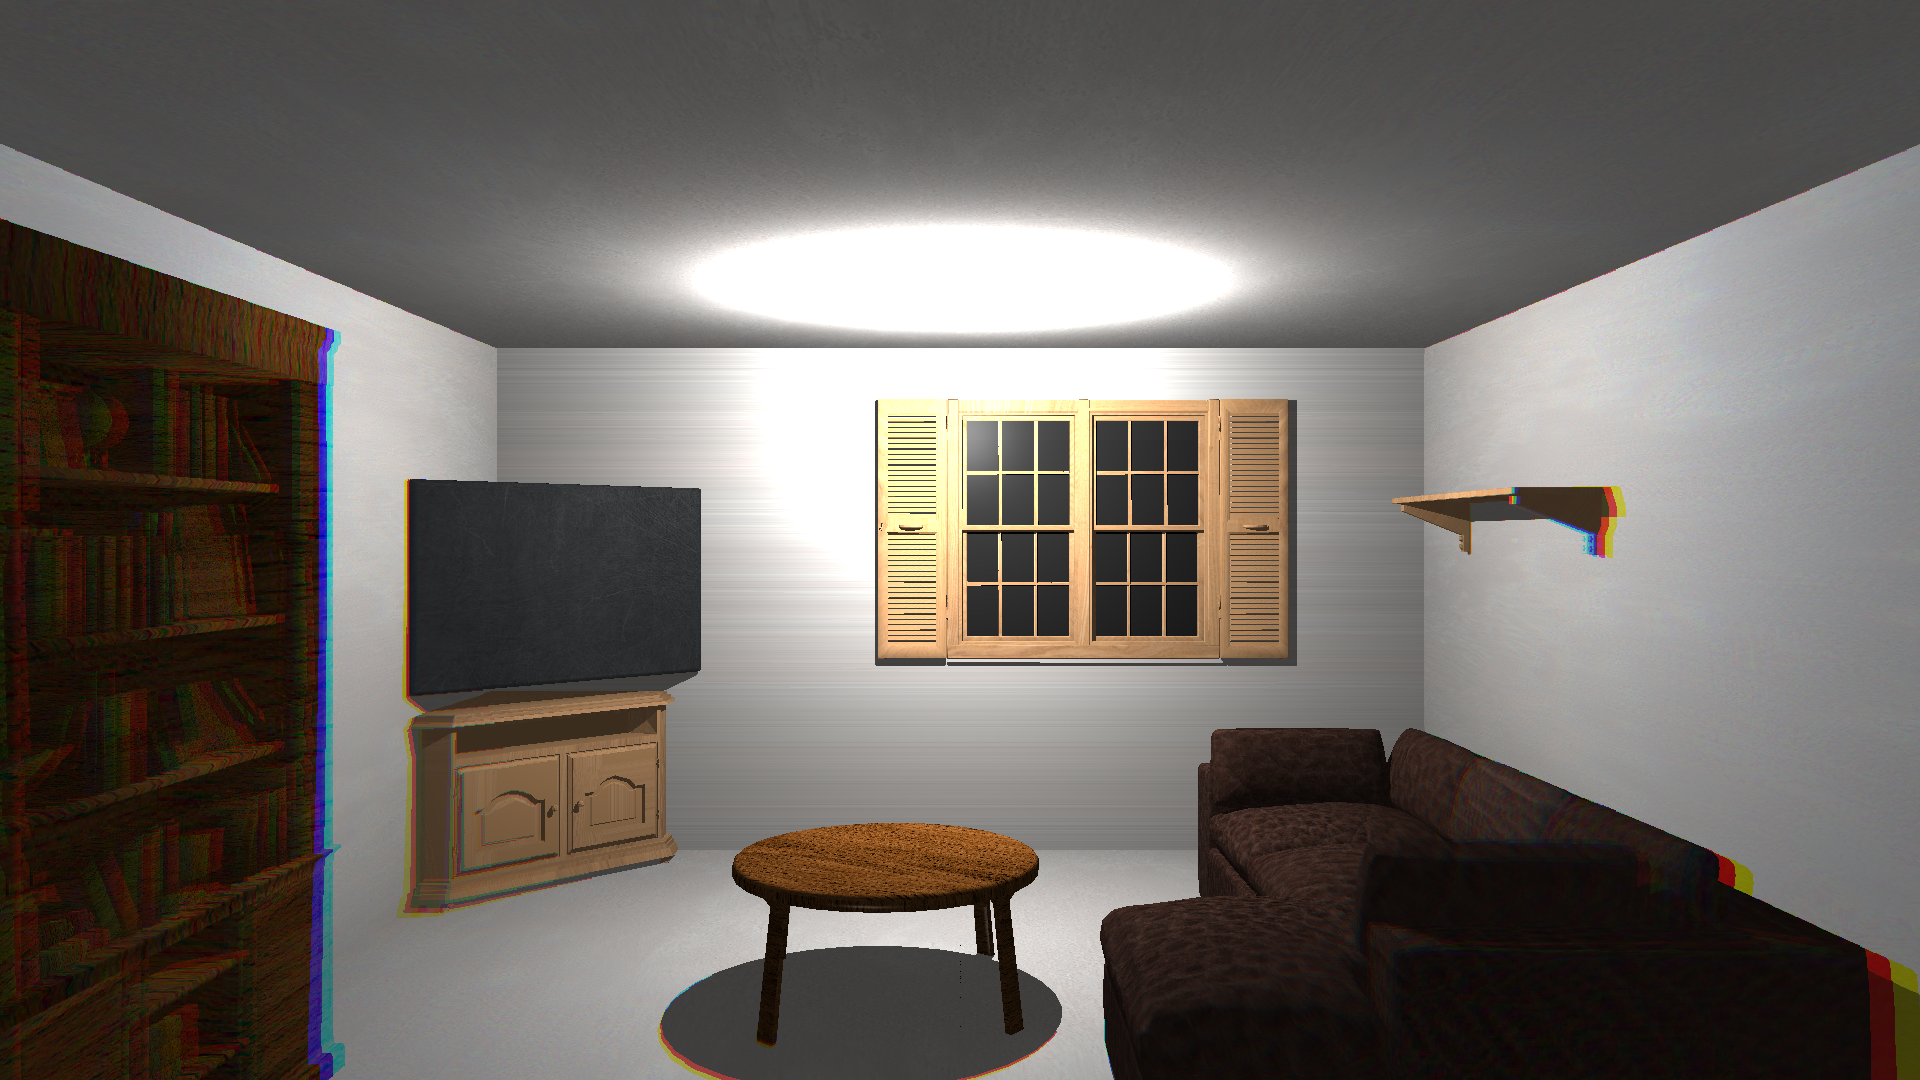
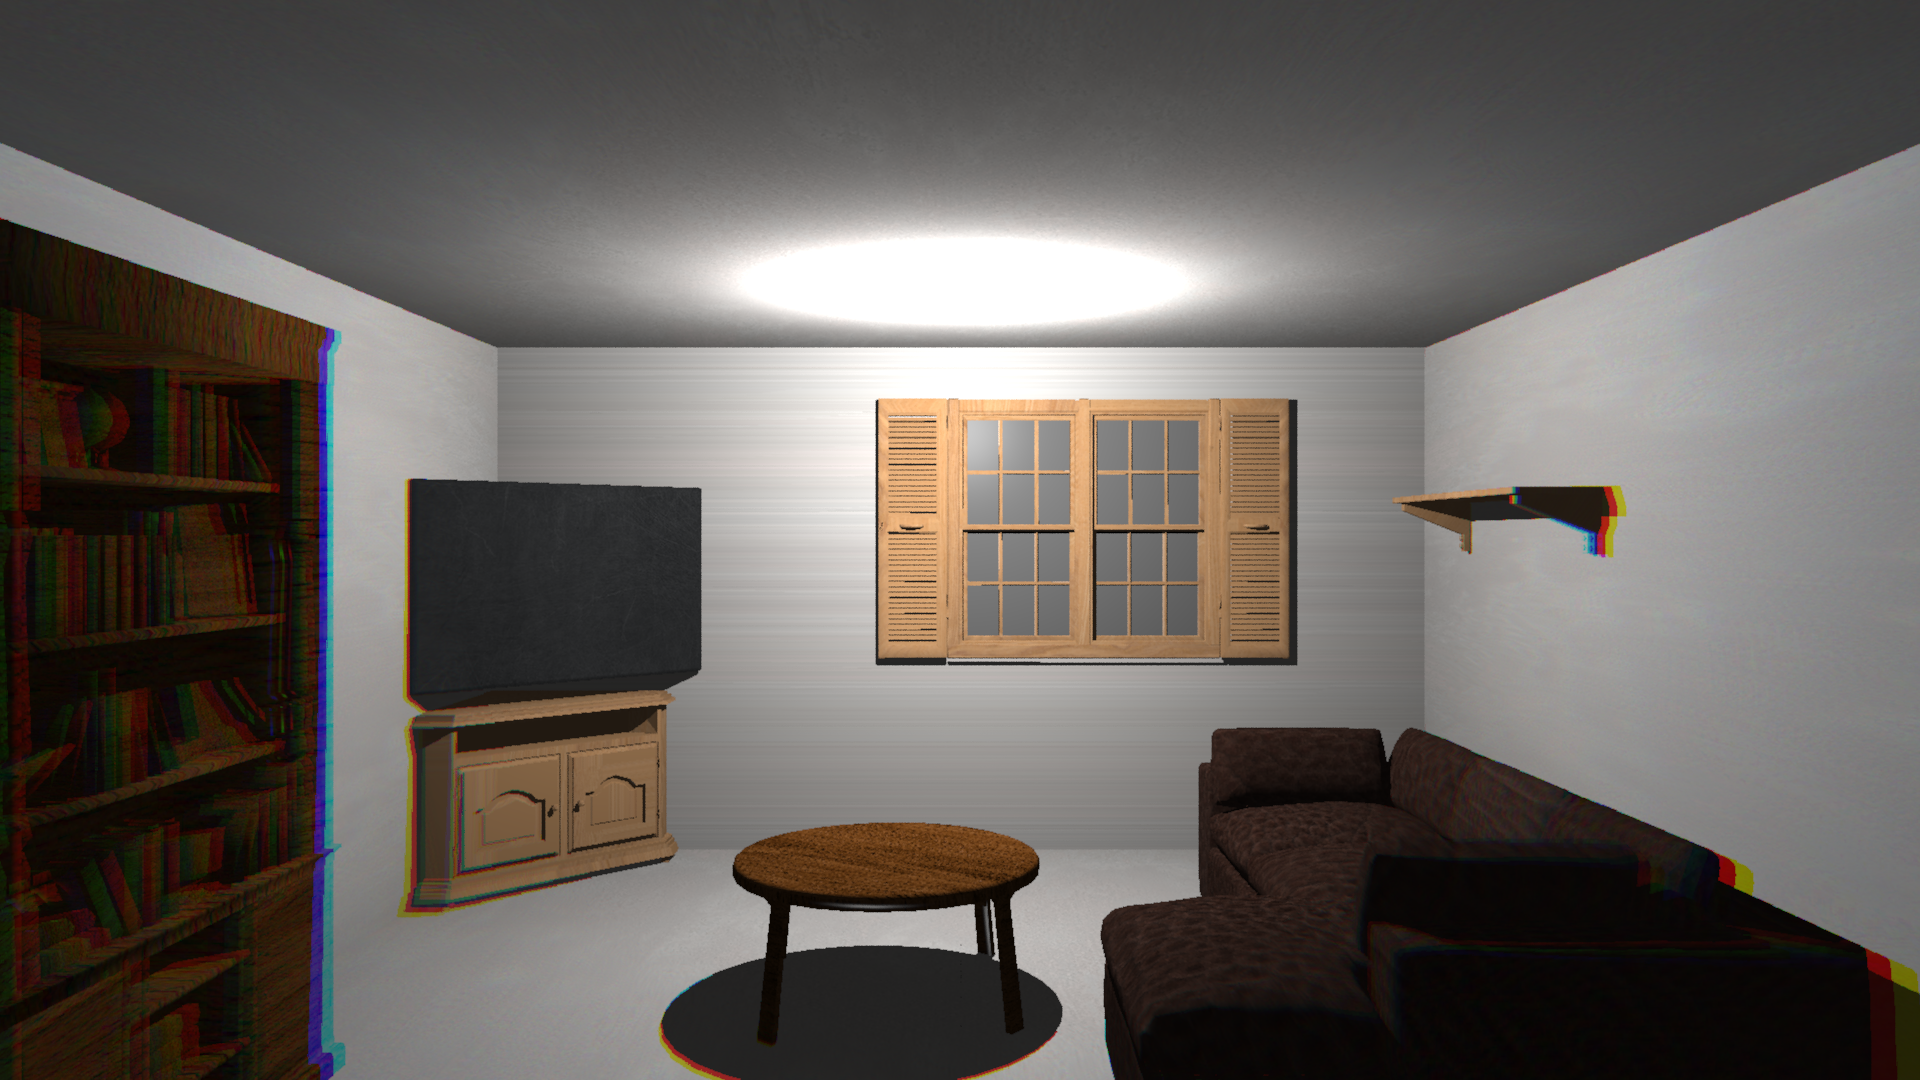
Implemented Anti-Aliasing
Raytracer
- Created a random float function
- Implemented Anti-Aliasing
- Added gamma correction (also reduced light intensity)

diff --git a/Coursework/Raytracer/main.cpp b/Coursework/Raytracer/main.cpp
@@ -41,18 +41,18 @@ Eigen::Vector3f loadVec3FromConfig(const nlohmann::json& config)
 	return Eigen::Vector3f(config[0], config[1], config[2]);
 }
 
-//float chromaticAberration(float radius, float slope, float unchangedRadius) {
-//	if (radius < unchangedRadius) {
-//		return radius;
-//	}
-//	return slope * radius + unchangedRadius * (1 - slope);
-//}
+// Returns a random float value between 0 and 1
+// Used for the jitter of Anti-Aliasing
+float randomFloat() {
+	return static_cast<float>(rand()) / RAND_MAX * 1.0f;
+}
 
 int main(int argc, char* argv[]) {
 
 	// --[Load the config file]--
 	auto config = loadConfig("../config/config.json");
 
+	// ::DEBUGGING:: Could divide pixHeight & pixWidth by 2 to reduce resolution = faster render time
 	const int pixHeight = config["pixHeight"], pixWidth = config["pixWidth"];
 	const int nChannels = 4;
 
@@ -173,10 +173,10 @@ int main(int argc, char* argv[]) {
 	scene.renderables.push_back(std::make_shared<BVHNode>(windowPaneModel, &glassShader, 4, rotateY(M_PI)));
 
 	// --[Add lights to scene]--
-	Eigen::Vector3f ambientLight(.3f, .3f, .3f);
+	Eigen::Vector3f ambientLight(0.02f, 0.02f, 0.02f);
 
 	std::vector<std::unique_ptr<Light>> lightSources;
-	lightSources.push_back(std::make_unique<PointLight>(Eigen::Vector3f(0.0f, 2.0f, 0.0f), 3.f * Eigen::Vector3f(1.f, 1.f, 1.f)));
+	lightSources.push_back(std::make_unique<PointLight>(Eigen::Vector3f(0.0f, 2.0f, 0.0f), 3.0f * Eigen::Vector3f(1.f, 1.f, 1.f)));
 
 	// --[Render the scene]--
 	// Shuffling the scanline order gets better CPU usage between threads
@@ -192,48 +192,81 @@ int main(int argc, char* argv[]) {
 
 	auto startTime = std::chrono::steady_clock::now();
 
-	Ray ray = cam.getRay(531, 325);
-	HitInfo hitInfo;
-	hitInfo.shader = nullptr;
-	scene.intersect(ray, 1e-6f, 1e6f, hitInfo, VISIBLE_BITMASK);
-	float x = hitInfo.hitT;
+	// Anti-Aliasing (AA) variables
+	// Reducing the number of samples reduces the affect of the AA but increases the render time
+	// Increasing the num of samples increases the affect of AA but increases render time
+	int samplesPerPixel = 32;
 
-
-	#pragma omp parallel for
+	// Threading disabled to allow random function of AA to work as intended - creating multiple rays with random offsets
+	//#pragma omp parallel for
 	for (int y = 0; y < pixHeight; ++y) {
 		for (int x = 0; x < pixWidth; ++x) {
-			Ray ray = cam.getRay(x, scanlines[y]);
-			HitInfo hitInfo;
-			hitInfo.shader = nullptr;
-			if (scene.intersect(ray, 1e-6f, 1e6f, hitInfo, VISIBLE_BITMASK)) {
-				if (hitInfo.shader == nullptr) {
-					std::cerr << "Error: Shader is null!" << std::endl;
-					continue;
+			// Anti-Aliasing implemented using stochastic (random) supersampling
+			Eigen::Vector3f totalColor(0.0f, 0.0f, 0.0f);	// Create a total colour variable
+
+			// For each sample taken per pixel
+			for (int s = 0; s < samplesPerPixel; s++) {
+				// Generate a random jittered X and Y values
+				float jitterX = x + randomFloat() - 0.5f;
+				float jitterY = scanlines[y] + randomFloat() - 0.5f;
+
+				// ::DEBUGGING:: to test whether the jitter values are changing
+				/*if (x == pixWidth / 2 && y == pixHeight / 2 && s < 5) {
+					std::cout << jitterX << ", " << jitterY << std::endl;
+				}*/
+
+				// Shoot a ray using that value
+				Ray ray = cam.getRay(jitterX, jitterY);
+				HitInfo hitInfo;
+				hitInfo.shader = nullptr;
+
+				// If the ray hits an object in the scene
+				if (scene.intersect(ray, 1e-6f, 1e6f, hitInfo, VISIBLE_BITMASK)) {
+					if (hitInfo.shader == nullptr) {
+						std::cerr << "Error: Shader is null!" << std::endl;
+						continue;
+					}
+
+					// Get the colour of that point
+					Eigen::Vector3f color = hitInfo.shader->getColor(
+						hitInfo, &scene,
+						lightSources, ambientLight,
+						0, config["maxBounces"]);
+
+					// And add it to the total colour
+					totalColor += color;
 				}
-
-				Eigen::Vector3f color = hitInfo.shader->getColor(
-					hitInfo, &scene,
-					lightSources, ambientLight,
-					0, config["maxBounces"]);
-
-				color.x() = std::min(color.x(), 1.f);
-				color.y() = std::min(color.y(), 1.f);
-				color.z() = std::min(color.z(), 1.f);
-
-
-				int line = (pixHeight - scanlines[y]) - 1;
-				outImage[(x + line * pixWidth) * nChannels + 0] = color.x() * 255;
-				outImage[(x + line * pixWidth) * nChannels + 1] = color.y() * 255;
-				outImage[(x + line * pixWidth) * nChannels + 2] = color.z() * 255;
-				outImage[(x + line * pixWidth) * nChannels + 3] = 255;
+				else {
+					// If ray misses an object in the scene, it returns black
+					Eigen::Vector3f color(0.0f, 0.0f, 0.0f);
+					// Black is still added to the total colour
+					totalColor += color;
+				}
 			}
-			else {
-				int line = (pixHeight - scanlines[y]) - 1;
-				outImage[(x + line * pixWidth) * nChannels + 0] = 0;
-				outImage[(x + line * pixWidth) * nChannels + 1] = 0;
-				outImage[(x + line * pixWidth) * nChannels + 2] = 0;
-				outImage[(x + line * pixWidth) * nChannels + 3] = 255;
-			}
+
+			// Divide the total colour value by the number of samples taken to get an average
+			Eigen::Vector3f finalColour = totalColor / samplesPerPixel;
+
+			// Apply Gamma correction
+			// Converting linear RGB values into display space
+			const float invGamma = 1.0f / 2.2f;
+
+			// Convert final linear color to sRGB for display (gamma correction)
+			finalColour.x() = std::pow(finalColour.x(), invGamma);
+			finalColour.y() = std::pow(finalColour.y(), invGamma);
+			finalColour.z() = std::pow(finalColour.z(), invGamma);
+
+			// Clamp the average values
+			finalColour.x() = std::min(finalColour.x(), 1.f);
+			finalColour.y() = std::min(finalColour.y(), 1.f);
+			finalColour.z() = std::min(finalColour.z(), 1.f);
+
+			// Output the image using the final colour
+			int line = (pixHeight - scanlines[y]) - 1;
+			outImage[(x + line * pixWidth) * nChannels + 0] = finalColour.x() * 255;
+			outImage[(x + line * pixWidth) * nChannels + 1] = finalColour.y() * 255;
+			outImage[(x + line * pixWidth) * nChannels + 2] = finalColour.z() * 255;
+			outImage[(x + line * pixWidth) * nChannels + 3] = 255;
 		}
 		if (omp_get_thread_num() == omp_get_num_threads()-1) {
 			std::clog << "\rScanlines remaining: " << (pixHeight - y) << ' ' << std::flush;

diff --git a/Coursework/Raytracer/Camera.hpp b/Coursework/Raytracer/Camera.hpp
@@ -45,6 +45,17 @@ public:
 			static_cast<float>(pixY) * up1pix_;
 
 		ray.direction = (pixelPos - location_).normalized();
+
+		// ::DEBUGGING:: to test whether the ray directions are different
+		/*static int debugCount = 0;
+		if (debugCount < 5) {
+			std::cout << "Ray dir: "
+				<< ray.direction.x() << ", "
+				<< ray.direction.y() << ", "
+				<< ray.direction.z() << std::endl;
+			debugCount++;
+		}*/
+
 		return ray;
 	}
 };

diff --git a/Coursework/Raytracer/TexturedLambertianShader.hpp b/Coursework/Raytracer/TexturedLambertianShader.hpp
@@ -38,6 +38,11 @@ public:
 		albedo.y() = static_cast<float>((*albedoTexture_)[(pixX + texWidth_*pixY)*4 + 1]) / 255.f;
 		albedo.z() = static_cast<float>((*albedoTexture_)[(pixX + texWidth_*pixY)*4 + 2]) / 255.f;
 
+		// Converting sRGB (texture space) to linear space for correct lighting
+		albedo.x() = std::pow(albedo.x(), 2.2);
+		albedo.y() = std::pow(albedo.y(), 2.2);
+		albedo.z() = std::pow(albedo.z(), 2.2);
+
 		Eigen::Vector3f color = coefftWiseMul(albedo, ambientLight);
 
 		for (auto& light : lights) {
@@ -53,4 +58,3 @@ public:
 		return color;
 	}
 };
-

diff --git a/Coursework/Raytracer/TexturedPhongShader.hpp b/Coursework/Raytracer/TexturedPhongShader.hpp
@@ -38,6 +38,11 @@ public:
 		albedo.y() = static_cast<float>((*albedoTexture_)[(pixX + texWidth_ * pixY) * 4 + 1]) / 255.f;
 		albedo.z() = static_cast<float>((*albedoTexture_)[(pixX + texWidth_ * pixY) * 4 + 2]) / 255.f;
 
+		// Converting sRGB (texture space) to linear space for correct lighting
+		albedo.x() = std::pow(albedo.x(), 2.2);
+		albedo.y() = std::pow(albedo.y(), 2.2);
+		albedo.z() = std::pow(albedo.z(), 2.2);
+
 		Eigen::Vector3f color = coefftWiseMul(albedo, ambientLight);
 
 		for (auto& light : lights) {

diff --git a/Coursework/Raytracer/LambertianShader.hpp b/Coursework/Raytracer/LambertianShader.hpp
@@ -36,4 +36,3 @@ public:
 		return color;
 	}
 };
-